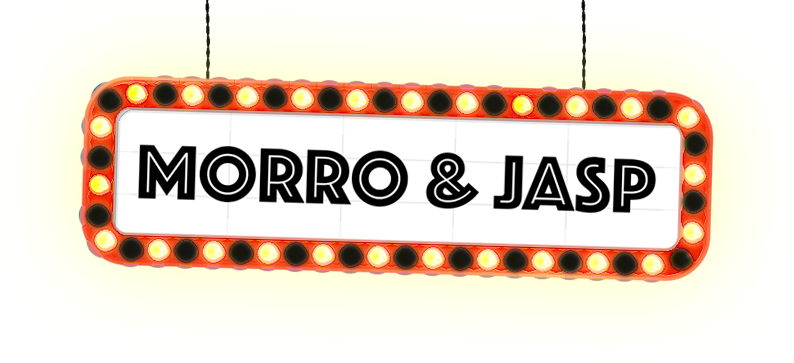
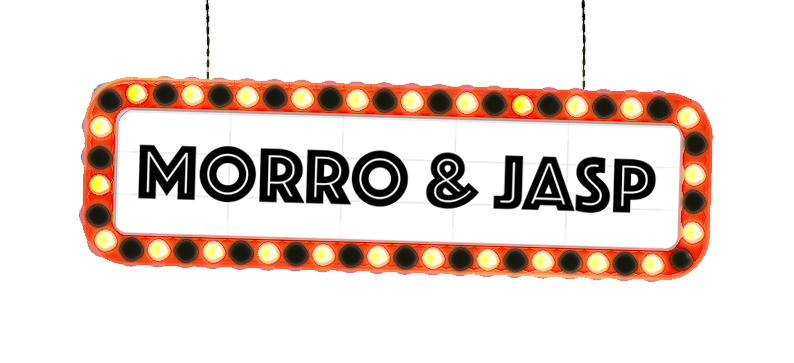
animate marquee

Changed region(s): [[0.1209, 0.2727, 0.937, 0.8182], [0.1209, 0.1515, 0.8766, 0.2727], [0.0605, 0.2424, 0.1209, 0.697]]

diff --git a/src/js/view/StageView.js b/src/js/view/StageView.js
@@ -62,6 +62,8 @@ define(function(require){
         queue.loadFile({id:'curtains-front', src:'assets/img/stage/curtains-front.png'});
         queue.loadFile({id:'curtains-front-dark', src:'assets/img/stage/curtains-front-dark.png'});
         queue.loadFile({id:'marquee', src:'assets/img/stage/marquee.png'});
+        queue.loadFile({id:'marquee-1', src:'assets/img/stage/marquee-1.png'});
+        queue.loadFile({id:'marquee-2', src:'assets/img/stage/marquee-2.png'});
 
         queue.addEventListener("complete", function(){
             var bg = new createjs.Bitmap(queue.getResult('bg'));
@@ -101,6 +103,14 @@ define(function(require){
             this.marquee.x = 271;
             this.addChild(this.marquee);
 
+            this.marquee1 = new createjs.Bitmap(queue.getResult('marquee-1'));
+            this.marquee1.x = 271;
+            this.addChild(this.marquee1);
+
+            this.marquee2 = new createjs.Bitmap(queue.getResult('marquee-2'));
+            this.marquee2.x = 271;
+            this.addChild(this.marquee2);
+
             this.curtainsFront = new createjs.Bitmap(queue.getResult('curtains-front'));
             this.addChild(this.curtainsFront);
 
@@ -128,10 +138,18 @@ define(function(require){
 
             this.resetCurtains();
 
+            // begin animations
+
             this._fidgetAudienceMembers();
+
+            TweenMax.to(this.marquee2, 0.1, {alpha: 0, repeat: -1, yoyo: true, repeatDelay: 0.4, ease: 'Linear.easeNone'});
+
+            // begin sound
 
             this.audienceSound = createjs.Sound.play('audience-sound', {volume: 0, loop: -1});
             TweenMax.to(this.audienceSound, 1, {volume: 0.1});
+
+            // complete
 
             this.loaded = true;
 
@@ -172,6 +190,8 @@ define(function(require){
             TweenMax.to(this.curtainsLeft[i], 2+i*0.3, {x:0, scaleX:0.5, delay:(4-i)*0.3, ease:'Quad.easeIn'});
             TweenMax.to(this.curtainsRight[i], 2+i*0.3, {x:game.width, scaleX:0.5, delay:(4-i)*0.3, ease:'Quad.easeIn'});
         }
+        this.removeChild(this.marquee1);
+        this.removeChild(this.marquee2);
         TweenMax.to(this.marquee, 2, {y:-363, ease:'Power1.easeInOut'});
         TweenMax.delayedCall(4, onComplete);
 
@@ -221,7 +241,6 @@ define(function(require){
     View.prototype.shushAudience = function() {
         TweenMax.killDelayedCallsTo(this._fidgetAudienceMembers);
         this.audience.forEach(function(a){
-            TweenMax.killChildTweensOf(a);
             TweenMax.to(a, 1+Math.random()*1, {rotation:0, x: a.originalX, y: a.originalY, delay: Math.random()*2});
         });
 
